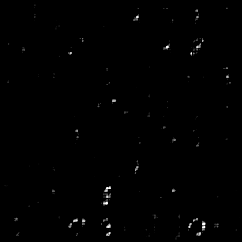
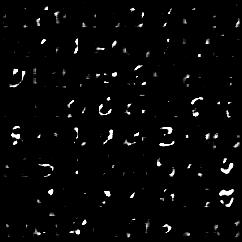
find good network structure for 28x28

diff --git a/vae_test2.py b/vae_test2.py
@@ -11,13 +11,13 @@ import  visdom
 parser = argparse.ArgumentParser(description='VAE MNIST Example')
 parser.add_argument('--batch-size', type=int, default=128, metavar='N',
                     help='input batch size for training (default: 128)')
-parser.add_argument('--epochs', type=int, default=10, metavar='N',
+parser.add_argument('--epochs', type=int, default=10000, metavar='N',
                     help='number of epochs to train (default: 10)')
 parser.add_argument('--no-cuda', action='store_true', default=False,
                     help='enables CUDA training')
 parser.add_argument('--seed', type=int, default=1, metavar='S',
                     help='random seed (default: 1)')
-parser.add_argument('--log-interval', type=int, default=10, metavar='N',
+parser.add_argument('--log-interval', type=int, default=100, metavar='N',
                     help='how many batches to wait before logging training status')
 args = parser.parse_args()
 args.cuda = not args.no_cuda and torch.cuda.is_available()
@@ -47,30 +47,33 @@ class VAE(nn.Module):
         super(VAE, self).__init__()
 
 
-        self.fc21 = nn.Linear(32, 8)
-        self.fc22 = nn.Linear(32, 8)
+        self.fc21 = nn.Linear(32*4*4, 20)
+        self.fc22 = nn.Linear(32*4*4, 20)
 
         # [b, imgc, imgsz, imgsz] => [b, h_c, h_d, h_d]
         self.encoder = nn.Sequential(
-            nn.Conv2d(1, 16, 3, stride=3, padding=1),  # b, 16, 10, 10
-            nn.ReLU(True),
-            nn.MaxPool2d(2, stride=2),  # b, 16, 5, 5
-            nn.Conv2d(16, 8, 3, stride=2, padding=1),  # b, 8, 3, 3
-            nn.ReLU(True),
-            nn.MaxPool2d(2, stride=1)  # b, 8, 2, 2
+            nn.Conv2d(1, 16, 5, stride=2, padding=0),  # b, 16, 14, 14
+            nn.LeakyReLU(0.2, inplace=True),
+            nn.Conv2d(16, 32, 5, stride=2, padding=0),  # b, 32, 7, 7
+            nn.LeakyReLU(0.2, inplace=True),
         )
 
         # [b, q_h_d, 1, 1] => [b, imgc, imgsz, imgsz]
         self.decoder = nn.Sequential(
             # Hout=(Hin−1)×stride[0] − 2×padding[0]+kernel_size[0]+output_padding[0]
-            nn.ConvTranspose2d(8, 16, 3, stride=2),  # b, 16, 5, 5
+            nn.ConvTranspose2d(20, 16, 5, stride=2),  # b, 16, 5, 5
             nn.ReLU(True),
-            nn.ConvTranspose2d(16, 8, 5, stride=3, padding=1),  # b, 8, 15, 15
+            nn.ConvTranspose2d(16, 8, 5, stride=2, padding=0),  # b, 8, 15, 15
             nn.ReLU(True),
-            nn.ConvTranspose2d(8, 1, 5, stride=3, padding=1, output_padding=1),  # b, 1, 28, 28
+            nn.ConvTranspose2d(8, 1, 4, stride=2, padding=0, output_padding=0),  # b, 1, 28, 28
             # TODO: this can be removed? [-1~1]
             # nn.Tanh()
         )
+
+        inp = torch.Tensor(2, 1, 28, 28)
+        h = self.encoder(inp)
+        print(h.shape)
+
 
     def encode(self, x):
         # h1 = F.relu(self.fc1(x))
@@ -107,6 +110,7 @@ def loss_function(recon_x, x, mu, logvar):
     # BCE = F.binary_cross_entropy_with_logits(recon_x, x, reduction='sum')
 
     BCE = criteon(recon_x, x)
+    # print(recon_x.shape)
 
     # see Appendix B from VAE paper:
     # Kingma and Welling. Auto-Encoding Variational Bayes. ICLR, 2014
@@ -170,7 +174,7 @@ if __name__ == "__main__":
         train(epoch, vis)
         test(epoch, vis)
         with torch.no_grad():
-            sample = torch.randn(64, 8).to(device)
+            sample = torch.randn(64, 20).to(device)
             sample = model.decode(sample).cpu()
             save_image(sample.view(64, 1, 28, 28),
                        'results/sample_' + str(epoch) + '.png')

diff --git a/vae_train.py b/vae_train.py
@@ -86,7 +86,7 @@ def main(args):
 
 
 
-        continue
+
 
         # clustering, visualization and classification
         db_test = DataLoader(
